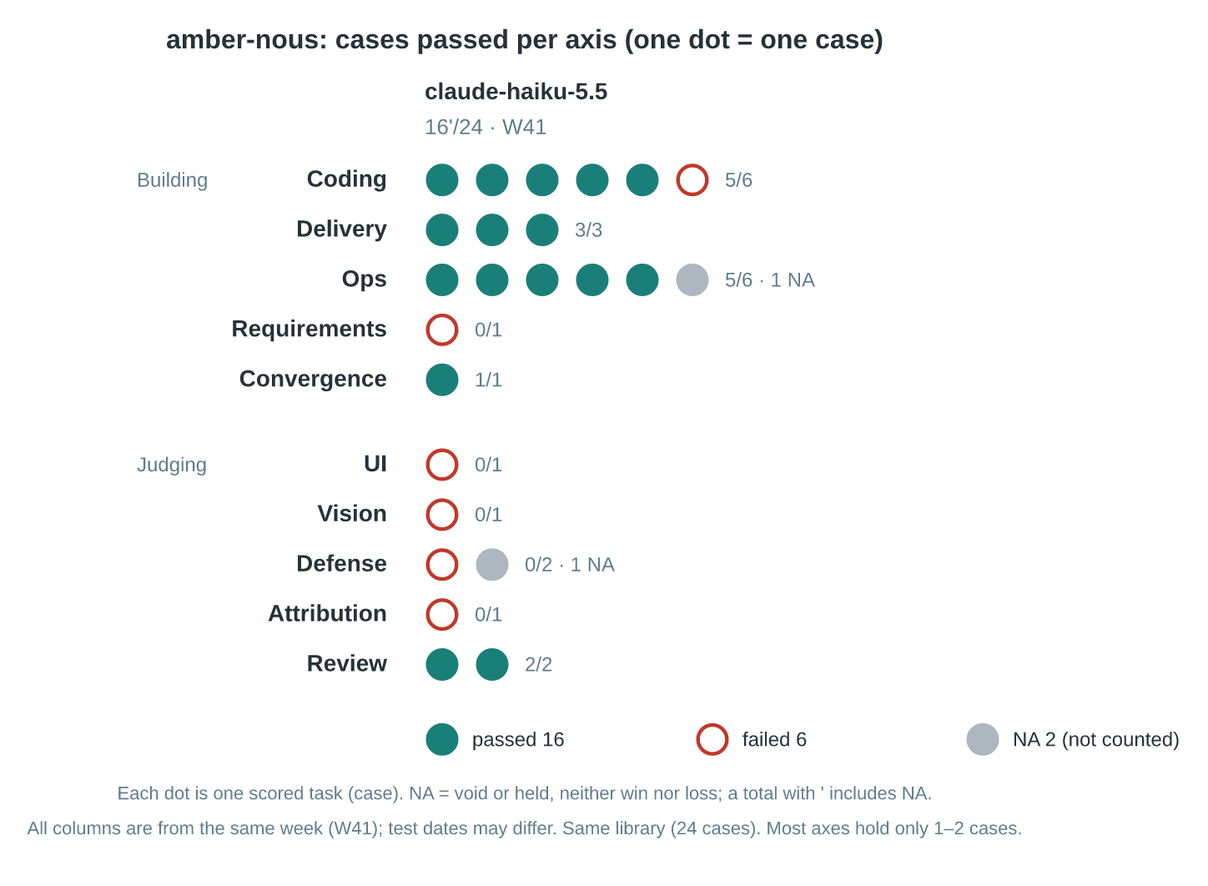
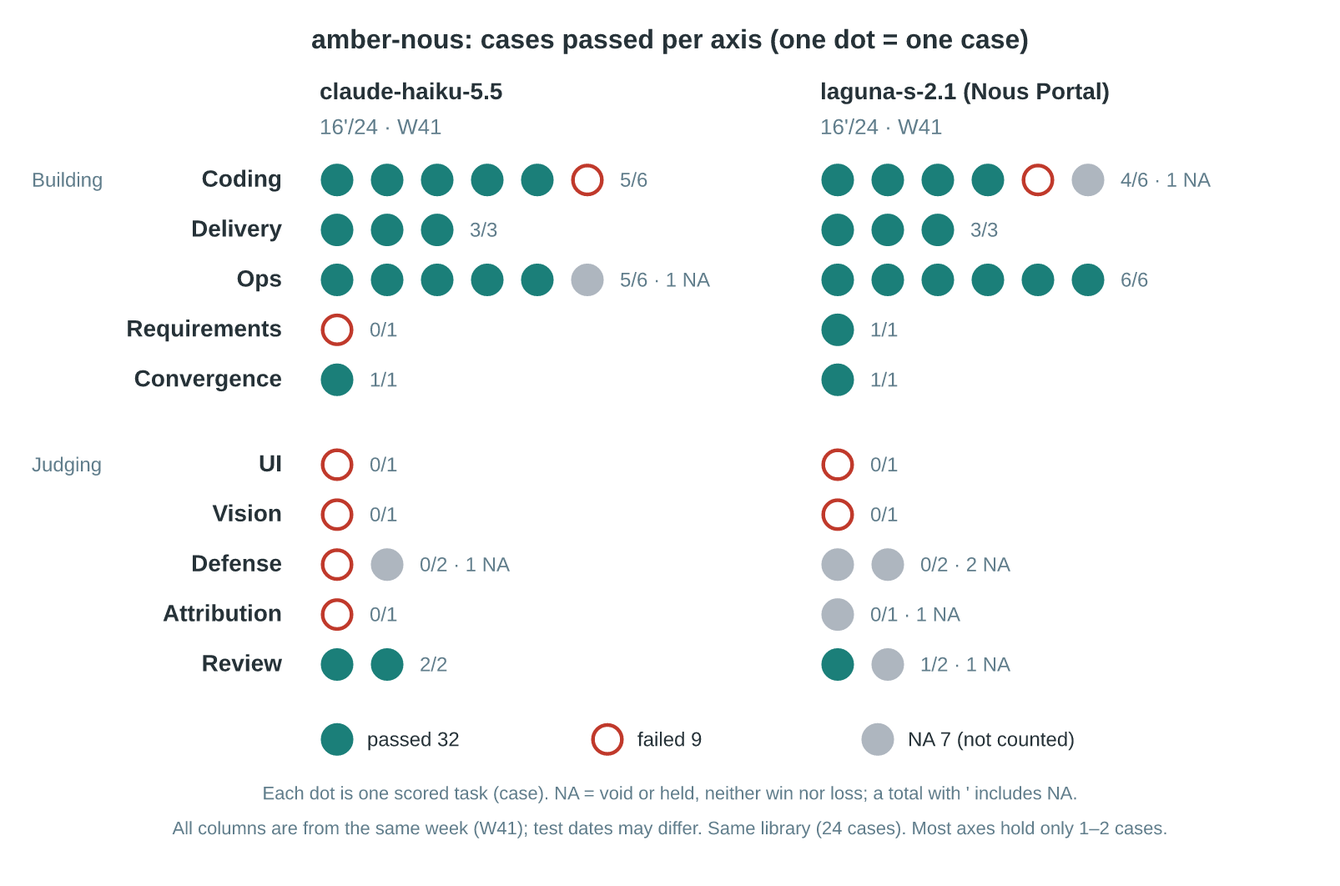
W41: merge laguna-s-2.1 (Nous Portal) into the W41 page per owner ruling (a): two-column matrix and ten-axis table generated from the DB (16'/24 each); claude-haiku-5.5 numbers unchanged; grok comparison column moved to the W39 page; README scoreboard now two lanes

diff --git a/results/2026-W41.en.md b/results/2026-W41.en.md
@@ -1,4 +1,4 @@
-# 2026-W41 — anthropic/claude-haiku-5.5 full-library first run (Nous Portal)
+# 2026-W41 — anthropic/claude-haiku-5.5 and laguna-s-2.1 full-library first runs (Nous Portal)
 
 **Summary**: Claude Haiku 5.5 (Anthropic's small, fast model) ran the full AMBER library on the Nous Portal lane: **27/27 runs in about 38 minutes, score 16'/24** (16 pass · 6 fail · 2 cases held and not counted: defense A-d511f9e8 held on every lane; ops A-24bcf707 see the 10-09 update below), **0 contested runs**, total cost ceiling **≈$4.2** (base tier just $0.83) — 1/13 to 1/3 of this repo's grok-4.7 first-run bill ($10.7), with 5 more wins (grok-4.7 corrected: 11 pass). The build face is remarkably strong: 5 of 6 BD cases won, all five with perfect pin scores, 5 of 6 OPS cases won, and the convergence case passed all three pins. The ceiling is just as clear: none of the three deep-analysis (BE) cases passed (1 held, 2 real fails), visual defect-hunting hit only 2/5, and the brand-page UI case missed one pin out of twelve (title clipping at 1280px). Same-issue correction: two W39 grok-4.7 rows (A-be92627f, A-a5608487) are voided per adjudication ADJ-20261002, moving W39 from 13/24 to **11'/24** — see the erratum section at the end.
 
@@ -6,6 +6,9 @@
 
 
 > **Update 2026-10-09**: claude-haiku-5.5's ops case A-24bcf707 changes from ✗ 4/5 to ◍ held (NA), not counted as a win or a loss. Basis: the [2026-10-07 correction (A-24bcf707)](https://github.com/getaskclaw/amber/blob/main/docs/corrections-2026-10-07-a-24bcf707.en.md) describes a grader defect. The only required check that failed on this paper is `removal_found` (the diff of the named removal commit has no deleted lines in the feature files), the same pattern. That correction was signed for seven lanes; this lane is treated the same way by the owner's ruling of 2026-10-09, and the spec's 10-07 table is unchanged. The total changes from 16'/24 (16 pass · 7 fail · 1 held) to **16'/24 (16 pass · 6 fail · 2 held)**: the pass count is unchanged, the ops axis reads 5/6 (incl. 1 fail) → 5/6 · 1 NA, and the composition chart is redrawn. Also, the internal case numbers in the W39 erratum and the review note were replaced by public aliases; wording only, no verdict changed. The rest of the text is unchanged.
+
+**Another model on the same gateway**: laguna-s-2.1 (free tier, high band) sat the full library once via Nous Portal: 27 papers across 24 cases; 19 passed as valid, 4 failed as valid, and 4 were voided for infrastructure reasons at the exam room (not counted against the candidate). The board shows **16'/24** (16 pass · 3 fail · 5 NA); the NAs include 2 cases held on every lane. The same model was also sat on the CommandCode route, see the [CommandCode W41 page](https://github.com/getaskclaw/amber-commandcode/blob/main/results/2026-W41.en.md).
+
 ---
 
 Chinese: [2026-W41.md](2026-W41.md)
@@ -25,43 +28,79 @@ Chinese: [2026-W41.md](2026-W41.md)
 | token / cost | input **95K** / output **771K** / cache_read **21.9M** / cache_write **1.75M**; ceiling at the ≥100k-prompt tier **≈$4.16**, base tier **≈$0.83** |
 | calibration | raw API PONG 200 (model echo matches); clean-room profile PONG + state.db wire audit (billing_provider=nousportal); native vision text+image→text, so the vision case ran as designed |
 
+| field | value (laguna-s-2.1) |
+|---|---|
+| model | `poolside/laguna-s-2.1:free` (the score database records provider `nousportal`) |
+| band | high |
+| first paper start (UTC) | 2026-10-09 00:39 |
+| terminal states of the 27 papers | 19 valid pass · 4 valid fail · 4 voided for infrastructure at the exam room |
+| usage (46 usage records) | input 2,910,291 · output 454,617 · cache read 9,595,552 · cache write 0 (2 of the 46 records carry no provider tag; included in the totals) |
+
 ![Board composition](assets/2026-W41-composition.en.png?v=20261009)
 
 ![Cost breakdown](assets/2026-W41-cost.en.png)
 
 ## Full matrix
 
-Case handles are public aliases. The comparison column is this repo's W39 grok-4.7 @ Nous Portal lane (corrected per ADJ-20261002: A-be92627f and A-a5608487 voided, see erratum below). Marks: ✓ pass / ✗ fail (d2 score) / ◍ held, not counted.
+Case handles are public aliases. The two columns are two models on the same gateway (claude-haiku-5.5 and laguna-s-2.1), on one case set. Marks: ✓ pass / ✗ fail (d2 score) / ⊘ NA (held or void, not counted). The grok-4.7 comparison column is no longer repeated here; see the [W39 page](2026-W39.en.md).
 
-| case | face | bundle_sha | **claude-haiku-5.5 @ Nous Portal** | grok-4.7 @ Nous Portal (comparison, corrected) |
+<!-- matrix:start -->
+
+Cases are listed by public alias; check them against the [amber hash-index](https://github.com/getaskclaw/amber). ✓ pass · ✗ fail · ⊘ NA (void or held, not counted). Scores are required checks passed/total; the review and vision axes use a fault-finding score, which can be negative. Rows follow the ten-axis order.
+
+| case | axis | bundle_sha | claude-haiku-5.5 | laguna-s-2.1 (Nous Portal) |
 |---|---|---|---|---|
-| A-77d62143 | build(custody) | 7edee286f327 | ✓ 8/8 | ✓ 8/8 |
-| A-569dbe0d | build(ETL) | 45ccf06657af | ✓ 10/10 | ✓ 10/10 |
-| A-87c472cb | build | cd643fa107e0 | ✗ 6/8 | ✗ 6/8 |
-| A-641195e2 | build | 7cc76bad6f89 | ✓ 8/8 | ✓ 8/8 |
-| A-442d4aab | build | ddf28dfda1cd | ✓ 7/7 | ✓ 7/7 |
-| A-61f7ad01 | build(UI) | 991167b1455f | ✓ 7/7 | ✓ 7/7 |
-| A-d511f9e8 | verify | f725082a2dc8 | ◍ case-level hold (raw 4/12) | ◍ case-level hold (raw 4/12) |
-| A-a317e74b | verify | e05970e7d7c9 | ✗ 10/15 | ✗ 13/15 |
-| A-be92627f | verify | 6593829abdfa | ✗ 4/9 | ~~✓ 9/9~~ void NA (integrity) |
-| A-cdc3d11a | review | dbb207a3118d | ✓ d2=1.0 (verdict FIX correct, hits 2/3, fp=1) | ✗ -2 (plan-and-stop) |
-| A-47eea242 | review | b4b8d4bb44e3 | ✓ d2=3 (verdict SHIP correct, fp=0) | ✗ -2 (plan-and-stop) |
-| A-ea80d793 | vision | 1d69841b029e | ✗ d2=-1.0 (hits 2/5, fp=0) | ✗ -2 (plan-and-stop) |
-| A-791e90ac | text | 0396c8576a56 | ✓ 6/6 | ✗ no code block |
-| A-1fd3683a | text | 6a980035b42f | ✓ 2/2 | ✗ no code block |
-| A-13854d9d | text | a56b202b0537 | ✓ 5/5 | ✗ no code block |
-| A-d9b79b46 | ui-build | e33e48797990 ¹ | ✗ 11/12 (one pin: title clipped at 1280px) | ✗ (plan-and-stop) |
-| A-0676097b | req-drift | 3c04bb80fe94 | ✗ 3/4 variants (leaf-swap scored 50) | ✓ 4/4 |
-| A-a5608487 | ops | bcfac8de9f29 | ✓ 5/5 | ~~✓~~ void NA (integrity) |
-| A-984e80ee | ops | a28b57d4d1f1 | ✓ 5/5 | ✗ |
-| A-24bcf707 | ops | ba4431d40006 | ◍ held (original 4/5) | ✓ |
-| A-8d4bc770 | ops | 957f29e633c7 | ✓ 5/5 | ✓ |
-| A-6fbeb363 | ops | bcfb57e27cff | ✓ 6/6 | ✓ |
-| A-8c909d0a | ops | 53623441d653 | ✓ 7/7 | ✓ |
-| A-3f2a9cdd | convergence | 4880adbea261 | ✓ all three pins | ✓ |
-| **total** | | | **16'/24** (16 pass · 6 fail · 2 held) | **11'/24** (11 pass · 10 fail · 3 NA) |
+| A-77d62143 | Coding | 7edee286f327 | ✓ 8/8 | ✓ 8/8 |
+| A-569dbe0d | Coding | 45ccf06657af | ✓ 10/10 | ✓ 10/10 |
+| A-87c472cb | Coding | cd643fa107e0 | ✗ 6/8 | ⊘ NA (invalid) |
+| A-641195e2 | Coding | 7cc76bad6f89 | ✓ 8/8 | ✓ 8/8 |
+| A-442d4aab | Coding | ddf28dfda1cd | ✓ 7/7 | ✗ 1/7 |
+| A-61f7ad01 | Coding | 991167b1455f | ✓ 7/7 | ✓ 7/7 |
+| A-791e90ac | Delivery | 0396c8576a56 | ✓ 6/6 | ✓ 6/6 |
+| A-1fd3683a | Delivery | 6a980035b42f | ✓ 2/2 | ✓ 2/2 |
+| A-13854d9d | Delivery | a56b202b0537 | ✓ 5/5 | ✓ 5/5 |
+| A-a5608487 | Ops | bcfac8de9f29 | ✓ 5/5 | ✓ 5/5 |
+| A-984e80ee | Ops | a28b57d4d1f1 | ✓ 5/5 | ✓ 5/5 |
+| A-24bcf707 | Ops | ba4431d40006 | ⊘ NA (held, re-sit pending) | ✓ 5/5 |
+| A-8d4bc770 | Ops | 957f29e633c7 | ✓ 5/5 | ✓ 5/5 |
+| A-6fbeb363 | Ops | bcfb57e27cff | ✓ 6/6 | ✓ 6/6 |
+| A-8c909d0a | Ops | 53623441d653 | ✓ 7/7 | ✓ 7/7 |
+| A-0676097b | Requirements | 3c04bb80fe94 | ✗ 3/4 variants | ✓ 4/4 variants |
+| A-3f2a9cdd | Convergence | 4880adbea261 | ✓ | ✓ |
+| A-d9b79b46 | UI | e33e48797990 | ✗ 11/12 | ✗ 11/12 |
+| A-ea80d793 | Vision | 1d69841b029e | ✗ fault-finding −1 | ✗ fault-finding −2 |
+| A-d511f9e8 | Defense | f725082a2dc8 | ⊘ NA (held, re-sit pending) | ⊘ NA (held, re-sit pending) |
+| A-be92627f | Defense | 6593829abdfa | ✗ 4/9 | ⊘ NA (invalid) |
+| A-a317e74b | Attribution | e05970e7d7c9 | ✗ 10/15 | ⊘ NA (invalid) |
+| A-cdc3d11a | Review | dbb207a3118d | ✓ fault-finding 1 | ⊘ NA (held, re-sit pending) |
+| A-47eea242 | Review | b4b8d4bb44e3 | ✓ fault-finding 3 | ✓ fault-finding 4 |
+| **total** | | | **16/24 wins · 6 losses · 2 NA** | **16/24 wins · 3 losses · 5 NA** |
 
-¹ This case's bundle differs from W39 (W39: d6d63130ecc6): the case harness was rebuilt between issues, so d2 details are not directly comparable across issues; the pass/fail basis is unchanged.
+<!-- matrix:end -->
+
+## Ten axes
+
+<!-- axes:start -->
+
+| group | axis | claude-haiku-5.5 · passes | claude-haiku-5.5 · completion | laguna-s-2.1 (Nous Portal) · passes | laguna-s-2.1 (Nous Portal) · completion |
+|---|---|:-:|:-:|:-:|:-:|
+| Building | Coding | 5/6 | 0.96 | 4/6 · 1 NA | 0.83 |
+|  | Delivery | 3/3 | 1.00 | 3/3 | 1.00 |
+|  | Ops | 5/6 · 1 NA | 1.00 | 6/6 | 1.00 |
+|  | Requirements | 0/1 | 0.75 | 1/1 | 1.00 |
+|  | Convergence | 1/1 | 1.00 | 1/1 | 1.00 |
+| Judging | UI | 0/1 | 0.92 | 0/1 | 0.92 |
+|  | Vision | 0/1 | 0.33 | 0/1 | 0.22 |
+|  | Defense | 0/2 · 1 NA | 0.44 | 0/2 · 2 NA | — |
+|  | Attribution | 0/1 | 0.67 | 0/1 · 1 NA | — |
+|  | Review | 2/2 | 0.67 | 1/2 · 1 NA | 0.89 |
+| | **total** | **16'/24** |  | **16'/24** |  |
+
+Two readings of the same papers. **Passes** = cases passed / cases on the axis; a case passes only when every required check passes. This is the [askclaw.dev](https://askclaw.dev/en/rank/) board metric. **Completion** = 0–1, prorated by required checks, so a failed case still earns the share it got right; review and vision are prorated from the fault-finding score. NA cases count in neither. Most axes hold one or two cases, so one case can move the reading.
+
+<!-- axes:end -->
+
+The radar covers claude-haiku-5.5 only (not redrawn in this change).
 
 ![Ten-axis completion radar](assets/2026-W41-radar.en.png)
 
@@ -73,6 +112,8 @@ Case handles are public aliases. The comparison column is this repo's W39 grok-4
 4. **Both review verdicts correct.** A-cdc3d11a called FIX correctly (2/3 hits, 1 false positive), A-47eea242 called SHIP correctly (0 false positives) — verdict direction is perfect; pin-level precision is middling.
 5. **REQ breaks on leaf-swap.** 3 of 4 requirement-drift variants pass (visible/drift/signed-sync all 100; leaf-swap 50) — the leaf-node swap type of drift slipped through.
 6. **Zero infrastructure incidents.** All 27 sessions closed cleanly (cli_close), zero 4xx, zero rate limiting; truncation forensics found 0 contested runs — every low score is a real failure (the two BE losses made 52–64 API calls each and ran their full course).
+
+5. **Five cases differ between the two routes of laguna-s-2.1**: A-442d4aab (Nous fail · CommandCode pass), A-1fd3683a (Nous pass · CommandCode fail), A-0676097b (Nous pass · CommandCode fail), A-61f7ad01 (Nous pass · CommandCode voided for infrastructure), A-be92627f (Nous voided for infrastructure · CommandCode fail). The two routes report different upstream version information (see the disclosure on the CommandCode page), so this page makes no same-source ruling.
 
 ## Harness notes
 

diff --git a/results/2026-W41.md b/results/2026-W41.md
@@ -1,4 +1,4 @@
-# 2026-W41 — anthropic/claude-haiku-5.5 全库首考（Nous Portal）
+# 2026-W41 — anthropic/claude-haiku-5.5 与 laguna-s-2.1 全库首考（Nous Portal）
 
 **中文摘要**：Claude Haiku 5.5（Anthropic 的小杯快模型）在 Nous Portal 道上全库首考：**约 38 分钟 27/27 卷一次过，成绩 16'/24**（16 胜 · 6 负 · 2 案挂起不计胜负：防御 A-d511f9e8 全车道挂起，运维 A-24bcf707 见下方 10-09 更新），**0 冤案**，全库成本上限 **≈$4.2**（低价档仅 $0.83）——为同仓 grok-4.7 首考账单（$10.7）的 1/13 ~ 1/3，成绩还多赢 5 案（grok-4.7 更正后 11 胜）。施工面尤其硬：BD 六案 5 胜且全满钉、OPS 六案 5 胜、收敛案三钉全过。天花板同样清楚：深度分析三案（BE 系）无一过线（1 案挂起、2 案真负）、视觉找茬 2/5、JJA 品牌页 11/12 差一钉（1280px 标题裁切）。同期更正：W39 grok-4.7 两行（A-be92627f、A-a5608487）按终审裁定 ADJ-20261002 改记作废（NA），成绩由 13/24 更正为 **11'/24**，详见文末更正节。
 
@@ -6,6 +6,9 @@
 
 
 > **2026-10-09 更新**：本页 claude-haiku-5.5 的运维案 A-24bcf707 由 ✗ 4/5 改记 ◍ 挂起（NA），不计胜负。依据：[10-07 更正（A-24bcf707）](https://github.com/getaskclaw/amber/blob/main/docs/corrections-2026-10-07-a-24bcf707.md)所述判分缺陷——本卷唯一未过的必检项是 `removal_found`（被指认的移除提交的 diff 在功能文件上无删除行），与该更正所述同构。该更正签署时登记的是七条车道；本道按 2026-10-09 owner 裁定同理处理，规范仓 10-07 更正表不改。总分由 16'/24（16 胜 · 7 负 · 1 挂起）改为 **16'/24（16 胜 · 6 负 · 2 挂起）**：通过案数不变，运维轴由 5/6（含 1 负）变为 5/6 · 1 NA；榜单构成图已据此重绘。顺手把正文里的内部编号（W39 更正段与审查段，共五个编号）换成公开别名；只换写法，不改观点。原文其余部分未动。
+
+**同网关另一模型**：laguna-s-2.1（免费档，high 档）经 Nous Portal 全库首考：27 卷、24 案，19 卷有效通过、4 卷有效未过、4 卷因考场基建作废（不计考生负）。板上 **16'/24**（16 胜 · 3 负 · 5 NA）；NA 含 2 个全车道挂起案。同一模型经 CommandCode 道另考，见 [CommandCode W41 页](https://github.com/getaskclaw/amber-commandcode/blob/main/results/2026-W41.md)。
+
 ---
 
 图解版：待补。English: [2026-W41.en.md](2026-W41.en.md)
@@ -25,43 +28,79 @@
 | token / cost | input **95K** / output **771K** / cache_read **21.9M** / cache_write **1.75M**；按 ≥100k prompt 高档价保守计上限 **≈$4.16**，低价档 **≈$0.83** |
 | 校准 | 裸 API PONG 200（model 回显一致）；净室 profile PONG + state.db 验脑（billing_provider=nousportal）；原生视觉 text+image→text，视觉案照考 |
 
+| 字段 | 值（laguna-s-2.1） |
+|---|---|
+| 模型 | `poolside/laguna-s-2.1:free`（成绩库 provider `nousportal`） |
+| 档位 | high |
+| 首卷起点（UTC） | 2026-10-09 00:39 |
+| 27 卷终态 | 19 有效通过 · 4 有效未过 · 4 考场基建作废 |
+| 用量（46 条用量记录） | 输入 2,910,291 · 输出 454,617 · 缓存读 9,595,552 · 缓存写 0（46 条中 2 条未标 provider，计入合计） |
+
 ![榜单构成](assets/2026-W41-composition.zh.png?v=20261009)
 
 ![成本构成](assets/2026-W41-cost.zh.png)
 
 ## Full matrix
 
-Case handles 为公开别名。对照列 = 同仓 W39 的 grok-4.7 @ Nous Portal（已按 ADJ-20261002 更正：A-be92627f、A-a5608487 作废 NA，见文末更正节）。标记：✓ 过 / ✗ 挂（d2 分）/ ◍ 挂起不计胜负。
+Case handles 为公开别名。两列 = 同网关两模型（claude-haiku-5.5 与 laguna-s-2.1），同一题集。标记：✓ 过 / ✗ 挂（d2 分）/ ⊘ NA（挂起或作废，不计胜负）。原 grok-4.7 对照列不再本页重复，见 [W39 页](2026-W39.md)。
 
-| case | face | bundle_sha | **claude-haiku-5.5 @ Nous Portal** | grok-4.7 @ Nous Portal（对照，已更正） |
+<!-- matrix:start -->
+
+题目只用公开别名，可对照 [amber hash-index](https://github.com/getaskclaw/amber)。✓ 过 · ✗ 挂 · ⊘ NA（作废或挂起，不计胜负）。分数 = 必检项通过数/总数；审查和视觉两轴记找茬分（可为负）。行序 = 十轴顺序。
+
+| 题 | 轴 | bundle_sha | claude-haiku-5.5 | laguna-s-2.1 (Nous Portal) |
 |---|---|---|---|---|
-| A-77d62143 | build(custody) | 7edee286f327 | ✓ 8/8 | ✓ 8/8 |
-| A-569dbe0d | build(ETL) | 45ccf06657af | ✓ 10/10 | ✓ 10/10 |
-| A-87c472cb | build | cd643fa107e0 | ✗ 6/8 | ✗ 6/8 |
-| A-641195e2 | build | 7cc76bad6f89 | ✓ 8/8 | ✓ 8/8 |
-| A-442d4aab | build | ddf28dfda1cd | ✓ 7/7 | ✓ 7/7 |
-| A-61f7ad01 | build(UI) | 991167b1455f | ✓ 7/7 | ✓ 7/7 |
-| A-d511f9e8 | verify | f725082a2dc8 | ◍ 案级挂起（原始 4/12） | ◍ 案级挂起（原始 4/12） |
-| A-a317e74b | verify | e05970e7d7c9 | ✗ 10/15 | ✗ 13/15 |
-| A-be92627f | verify | 6593829abdfa | ✗ 4/9 | ~~✓ 9/9~~ 作废 NA（考卷越界） |
-| A-cdc3d11a | review | dbb207a3118d | ✓ d2=1.0（verdict FIX 判对，hits 2/3，fp=1） | ✗ -2（plan-and-stop） |
-| A-47eea242 | review | b4b8d4bb44e3 | ✓ d2=3（verdict SHIP 判对，fp=0） | ✗ -2（plan-and-stop） |
-| A-ea80d793 | vision | 1d69841b029e | ✗ d2=-1.0（hits 2/5，fp=0） | ✗ -2（plan-and-stop） |
-| A-791e90ac | text | 0396c8576a56 | ✓ 6/6 | ✗ no code block |
-| A-1fd3683a | text | 6a980035b42f | ✓ 2/2 | ✗ no code block |
-| A-13854d9d | text | a56b202b0537 | ✓ 5/5 | ✗ no code block |
-| A-d9b79b46 | ui-build | e33e48797990 ¹ | ✗ 11/12（1280px 标题裁切一钉挂） | ✗（plan-and-stop） |
-| A-0676097b | req-drift | 3c04bb80fe94 | ✗ 3/4 变体（leaf-swap 50 分挂） | ✓ 4/4 |
-| A-a5608487 | ops | bcfac8de9f29 | ✓ 5/5 | ~~✓~~ 作废 NA（考卷越界） |
-| A-984e80ee | ops | a28b57d4d1f1 | ✓ 5/5 | ✗ |
-| A-24bcf707 | ops | ba4431d40006 | ◍ 挂起（原始 4/5） | ✓ |
-| A-8d4bc770 | ops | 957f29e633c7 | ✓ 5/5 | ✓ |
-| A-6fbeb363 | ops | bcfb57e27cff | ✓ 6/6 | ✓ |
-| A-8c909d0a | ops | 53623441d653 | ✓ 7/7 | ✓ |
-| A-3f2a9cdd | convergence | 4880adbea261 | ✓ 三钉全过 | ✓ |
-| **total** | | | **16'/24**（16 胜 · 6 负 · 2 挂起） | **11'/24**（11 胜 · 10 负 · 3 NA） |
+| A-77d62143 | 编码 | 7edee286f327 | ✓ 8/8 | ✓ 8/8 |
+| A-569dbe0d | 编码 | 45ccf06657af | ✓ 10/10 | ✓ 10/10 |
+| A-87c472cb | 编码 | cd643fa107e0 | ✗ 6/8 | ⊘ NA（无效） |
+| A-641195e2 | 编码 | 7cc76bad6f89 | ✓ 8/8 | ✓ 8/8 |
+| A-442d4aab | 编码 | ddf28dfda1cd | ✓ 7/7 | ✗ 1/7 |
+| A-61f7ad01 | 编码 | 991167b1455f | ✓ 7/7 | ✓ 7/7 |
+| A-791e90ac | 交付 | 0396c8576a56 | ✓ 6/6 | ✓ 6/6 |
+| A-1fd3683a | 交付 | 6a980035b42f | ✓ 2/2 | ✓ 2/2 |
+| A-13854d9d | 交付 | a56b202b0537 | ✓ 5/5 | ✓ 5/5 |
+| A-a5608487 | 运维 | bcfac8de9f29 | ✓ 5/5 | ✓ 5/5 |
+| A-984e80ee | 运维 | a28b57d4d1f1 | ✓ 5/5 | ✓ 5/5 |
+| A-24bcf707 | 运维 | ba4431d40006 | ⊘ NA（挂起待补考） | ✓ 5/5 |
+| A-8d4bc770 | 运维 | 957f29e633c7 | ✓ 5/5 | ✓ 5/5 |
+| A-6fbeb363 | 运维 | bcfb57e27cff | ✓ 6/6 | ✓ 6/6 |
+| A-8c909d0a | 运维 | 53623441d653 | ✓ 7/7 | ✓ 7/7 |
+| A-0676097b | 需求 | 3c04bb80fe94 | ✗ 3/4 变体 | ✓ 4/4 变体 |
+| A-3f2a9cdd | 收敛 | 4880adbea261 | ✓ | ✓ |
+| A-d9b79b46 | UI | e33e48797990 | ✗ 11/12 | ✗ 11/12 |
+| A-ea80d793 | 视觉 | 1d69841b029e | ✗ 找茬分 −1 | ✗ 找茬分 −2 |
+| A-d511f9e8 | 防御 | f725082a2dc8 | ⊘ NA（挂起待补考） | ⊘ NA（挂起待补考） |
+| A-be92627f | 防御 | 6593829abdfa | ✗ 4/9 | ⊘ NA（无效） |
+| A-a317e74b | 归因 | e05970e7d7c9 | ✗ 10/15 | ⊘ NA（无效） |
+| A-cdc3d11a | 审查 | dbb207a3118d | ✓ 找茬分 1 | ⊘ NA（挂起待补考） |
+| A-47eea242 | 审查 | b4b8d4bb44e3 | ✓ 找茬分 3 | ✓ 找茬分 4 |
+| **合计** | | | **16/24 胜 · 6 负 · 2 NA** | **16/24 胜 · 3 负 · 5 NA** |
 
-¹ 本案 bundle 与 W39 期不同（W39 为 d6d63130ecc6）：案间考场已重建，跨期不直接比 d2 细目，胜负口径仍一致。
+<!-- matrix:end -->
+
+## Ten axes
+
+<!-- axes:start -->
+
+| 大类 | 轴 | claude-haiku-5.5 · 通过 | claude-haiku-5.5 · 完成度 | laguna-s-2.1 (Nous Portal) · 通过 | laguna-s-2.1 (Nous Portal) · 完成度 |
+|---|---|:-:|:-:|:-:|:-:|
+| 施工面 | 编码 | 5/6 | 0.96 | 4/6 · 1 NA | 0.83 |
+|  | 交付 | 3/3 | 1.00 | 3/3 | 1.00 |
+|  | 运维 | 5/6 · 1 NA | 1.00 | 6/6 | 1.00 |
+|  | 需求 | 0/1 | 0.75 | 1/1 | 1.00 |
+|  | 收敛 | 1/1 | 1.00 | 1/1 | 1.00 |
+| 判断面 | UI | 0/1 | 0.92 | 0/1 | 0.92 |
+|  | 视觉 | 0/1 | 0.33 | 0/1 | 0.22 |
+|  | 防御 | 0/2 · 1 NA | 0.44 | 0/2 · 2 NA | — |
+|  | 归因 | 0/1 | 0.67 | 0/1 · 1 NA | — |
+|  | 审查 | 2/2 | 0.67 | 1/2 · 1 NA | 0.89 |
+| | **合计** | **16'/24** |  | **16'/24** |  |
+
+两种读法，同一批卷：**通过** = 通过案数/该轴案数，必检项全过才算过，[askclaw.dev](https://askclaw.dev/rank/) 榜单用这个；**完成度** = 0–1，按必检项折算，挂掉的案也按做对的比例记分，审查和视觉按找茬分折算。NA 的案两种读法都不计。多数轴只有 1–2 案，一案就能改变该轴读数。
+
+<!-- axes:end -->
+
+雷达图仅 claude-haiku-5.5（本次未重绘）。
 
 ![十轴完成度雷达](assets/2026-W41-radar.zh.png)
 
@@ -73,6 +112,8 @@ Case handles 为公开别名。对照列 = 同仓 W39 的 grok-4.7 @ Nous Portal
 4. **审查案双对。** A-cdc3d11a 判 FIX 正确（hits 2/3，1 误报）、A-47eea242 判 SHIP 正确（0 误报）——verdict 方向感满分，找钉精度中等。
 5. **REQ 系折在 leaf-swap。** 需求漂移四变体 3 过 1 挂（visible/drift/signed-sync 均 100 分，leaf-swap 50 分）——叶节点偷换型漂移没抓住。
 6. **零基建事故。** 全部 27 会话干净收场（cli_close）、零 4xx、零限流；截尾法医 0 冤案，低分卷均为真打真负（BE 两案各 52–64 次 API 调用，跑满全程）。
+
+5. **同模型另一路由（laguna-s-2.1）逐案不同的 5 案**：A-442d4aab（Nous 负 · CommandCode 过）、A-1fd3683a（Nous 过 · CommandCode 负）、A-0676097b（Nous 过 · CommandCode 负）、A-61f7ad01（Nous 过 · CommandCode 基建作废）、A-be92627f（Nous 基建作废 · CommandCode 负）。两路由的上游版本信息不同（见 CommandCode 页披露），本页不作同源判定。
 
 ## Harness notes
 

diff --git a/README.en.md b/README.en.md
@@ -14,21 +14,25 @@ Results from testing models sold on **Nous Portal** (inference-api.nousresearch.
 
 <!-- scoreboard:start -->
 
-![amber-nous scoreboard: cases passed per axis for claude-haiku-5.5](results/assets/scoreboard.en.png?v=20261009)
+![amber-nous scoreboard: cases passed per axis for claude-haiku-5.5, laguna-s-2.1 (Nous Portal)](results/assets/scoreboard.en.png?v=20261009)
 
-| Group | Axis | What it tests | claude-haiku-5.5 · [W41](results/2026-W41.en.md) |
-|---|---|---|:-:|
-| Building | Coding | Implement the spec correctly | 5/6 |
-|  | Delivery | Done means handed in | 3/3 |
-|  | Ops | Follow the runbook | 5/6 · 1 NA |
-|  | Requirements | Ship A when A was asked | 0/1 |
-|  | Convergence | Finish, don't spin | 1/1 |
-| Judging | UI | Build the page to the mock | 0/1 |
-|  | Vision | Spot defects in screenshots | 0/1 |
-|  | Defense | Plug every hole in the validator | 0/2 · 1 NA |
-|  | Attribution | Pin defects to their root cause | 0/1 |
-|  | Review | Inspect someone else's work | 2/2 |
-|  | **Total** |  | **16'/24** |
+| Group | Axis | What it tests | claude-haiku-5.5 · [W41](results/2026-W41.en.md) | laguna-s-2.1 (Nous Portal) · [W41](results/2026-W41.en.md) |
+|---|---|---|:-:|:-:|
+| Building | Coding | Implement the spec correctly | 5/6 | 4/6 · 1 NA |
+|  | Delivery | Done means handed in | 3/3 | 3/3 |
+|  | Ops | Follow the runbook | 5/6 · 1 NA | 6/6 |
+|  | Requirements | Ship A when A was asked | 0/1 | 1/1 |
+|  | Convergence | Finish, don't spin | 1/1 | 1/1 |
+| Judging | UI | Build the page to the mock | 0/1 | 0/1 |
+|  | Vision | Spot defects in screenshots | 0/1 | 0/1 |
+|  | Defense | Plug every hole in the validator | 0/2 · 1 NA | 0/2 · 2 NA |
+|  | Attribution | Pin defects to their root cause | 0/1 | 0/1 · 1 NA |
+|  | Review | Inspect someone else's work | 2/2 | 1/2 · 1 NA |
+|  | **Total** |  | **16'/24** | **16'/24** |
+
+- **Full marks for all**: Delivery, Convergence.
+- **None passed by any**: UI, Vision, Defense, Attribution (not one pass on these axes; NA does not count as a fail).
+- **Where they differ** (numbers follow the table columns, left to right): Coding 5/6 vs 4/6 · 1 NA, Ops 5/6 · 1 NA vs 6/6, Requirements 0/1 vs 1/1, Review 2/2 vs 1/2 · 1 NA.
 
 Each cell = cases passed / cases on that axis (a case is one scored task). NA = the case was voided or put on hold; it counts as neither a pass nor a fail, and a total carrying `'` contains at least one NA. Most axes hold only 1–2 cases, so one case moves the reading: do not over-read small gaps. All columns are from the same week (W41) and the test dates may differ; every number is a snapshot.
 

diff --git a/README.md b/README.md
@@ -14,21 +14,25 @@
 
 <!-- scoreboard:start -->
 
-![amber-nous 成绩一览：claude-haiku-5.5 逐轴过案数](results/assets/scoreboard.zh.png?v=20261009)
+![amber-nous 成绩一览：claude-haiku-5.5、laguna-s-2.1 (Nous Portal) 逐轴过案数](results/assets/scoreboard.zh.png?v=20261009)
 
-| 大类 | 轴 | 考什么 | claude-haiku-5.5 · [W41](results/2026-W41.md) |
-|---|---|---|:-:|
-| 施工面 | 编码 | 照着需求把功能写对 | 5/6 |
-|  | 交付 | 做完还得交得出东西 | 3/3 |
-|  | 运维 | 照规程干脏活 | 5/6 · 1 NA |
-|  | 需求 | 客户要 A 不要 B | 0/1 |
-|  | 收敛 | 真干完，不绕圈装忙 | 1/1 |
-| 判断面 | UI | 照设计稿做页面 | 0/1 |
-|  | 视觉 | 给真截图挑毛病 | 0/1 |
-|  | 防御 | 堵死校验器的漏网口 | 0/2 · 1 NA |
-|  | 归因 | 毛病对到正确根因 | 0/1 |
-|  | 审查 | 给别人的交付物挑错 | 2/2 |
-|  | **合计** |  | **16'/24** |
+| 大类 | 轴 | 考什么 | claude-haiku-5.5 · [W41](results/2026-W41.md) | laguna-s-2.1 (Nous Portal) · [W41](results/2026-W41.md) |
+|---|---|---|:-:|:-:|
+| 施工面 | 编码 | 照着需求把功能写对 | 5/6 | 4/6 · 1 NA |
+|  | 交付 | 做完还得交得出东西 | 3/3 | 3/3 |
+|  | 运维 | 照规程干脏活 | 5/6 · 1 NA | 6/6 |
+|  | 需求 | 客户要 A 不要 B | 0/1 | 1/1 |
+|  | 收敛 | 真干完，不绕圈装忙 | 1/1 | 1/1 |
+| 判断面 | UI | 照设计稿做页面 | 0/1 | 0/1 |
+|  | 视觉 | 给真截图挑毛病 | 0/1 | 0/1 |
+|  | 防御 | 堵死校验器的漏网口 | 0/2 · 1 NA | 0/2 · 2 NA |
+|  | 归因 | 毛病对到正确根因 | 0/1 | 0/1 · 1 NA |
+|  | 审查 | 给别人的交付物挑错 | 2/2 | 1/2 · 1 NA |
+|  | **合计** |  | **16'/24** | **16'/24** |
+
+- **都拿满**：交付、收敛。
+- **都没过**：UI、视觉、防御、归因（一道都没过；NA 不算没过）。
+- **有差别**（数字依次对应上表各列）：编码 5/6 对 4/6 · 1 NA、运维 5/6 · 1 NA 对 6/6、需求 0/1 对 1/1、审查 2/2 对 1/2 · 1 NA。
 
 每格 = 过了几案/该轴共几案（案 = 一道计分题）。NA = 这一案作废或暂停计分，不算过也不算没过；总分带 `'` 表示其中有 NA。多数轴只有 1–2 案，差一案读数就变，所以别把小差距当结论。各列考试周次相同（W41），具体日期可能不同，数字是当期快照。
 
